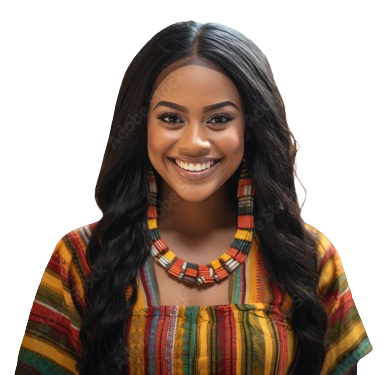
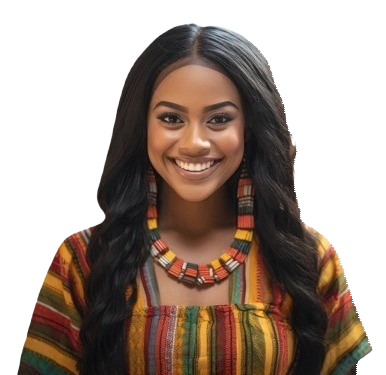
Mods

diff --git a/src/components/cartPage/CartDetails.jsx b/src/components/cartPage/CartDetails.jsx
@@ -8,19 +8,19 @@ const CartDetails = ({ shippingFee, loading }) => {
     <div className="cart_product_preview_div flex column gap1rem">
       <div className="flex align_center justify_between">
         <p className="font16">Subtotal</p>
-        <p className="font14">${total}</p>
+        <p className="font14">₵{total}</p>
       </div>
 
       <div className="flex align_center justify_between">
         <p className="font16">Shipping Fee</p>
         <p className="font14">
-          {loading ? "Loading..." : `$${shippingFee?.toFixed(2)}`}
+          {loading ? "Loading..." : `₵${shippingFee?.toFixed(2)}`}
         </p>
       </div>
 
       <div className="flex align_center justify_between">
         <p className="font16">Total</p>
-        <p className="font14">${totalPrice.toFixed(2)}</p>
+        <p className="font14">₵{totalPrice.toFixed(2)}</p>
       </div>
     </div>
   );

diff --git a/src/components/cart/CartModal.jsx b/src/components/cart/CartModal.jsx
@@ -70,7 +70,7 @@ const CartModal = () => {
                   {item.product.product_name}
                 </p>
                 <p className="font14 fontW700 cart_product_name_price">
-                  ${item.price}
+                  ₵{item.price}
                 </p>
                 <div className="flex justify_between align_center">
                   <p className="font12 pointer">
@@ -105,7 +105,7 @@ const CartModal = () => {
 
         <section className="padding1rem flex align_center justify_between sub_total">
           <h3>Subtotal</h3>
-          <p className="fontW700">${total}</p>
+          <p className="fontW700">₵{total}</p>
         </section>
         <Link
           to={"/cart/checkout"}

diff --git a/src/components/details/ProductDetails.jsx b/src/components/details/ProductDetails.jsx
@@ -61,7 +61,7 @@ const ProductDetails = () => {
         </section>
         <section className="product_details_desc_div flex gap15rem column">
           <h1>{product?.product_name}</h1>
-          <h5 className="font20">${product?.price}</h5>
+          <h5 className="font20">₵{product?.price}</h5>
 
           <section className="flex column gap1rem product_details_quantity_div">
             <h5>Quantity</h5>

diff --git a/src/components/items/ProductCard.jsx b/src/components/items/ProductCard.jsx
@@ -32,7 +32,7 @@ const ProductCard = ({ cat }) => {
             <p>4 stars (124)</p>
           </div>
           <p className="font16 fontW700">{cat.product_name}</p>
-          <p className="font18">${cat.price}</p>
+          <p className="font18">₵{cat.price}</p>
           <p className="font16">{cat.in_stock} in stock</p>
         </div>
       </Link>

diff --git a/src/components/home_page/SliderImage.jsx b/src/components/home_page/SliderImage.jsx
@@ -1,7 +1,7 @@
 import React, { useEffect, useState } from "react";
 import model3 from "../../assets/model.png";
 import model2 from "../../assets/model4.png";
-import model1 from "../../assets/bggh8-removebg-preview.png";
+import model1 from "../../assets/model0.png";
 
 const SliderImage = () => {
   const slides = [
